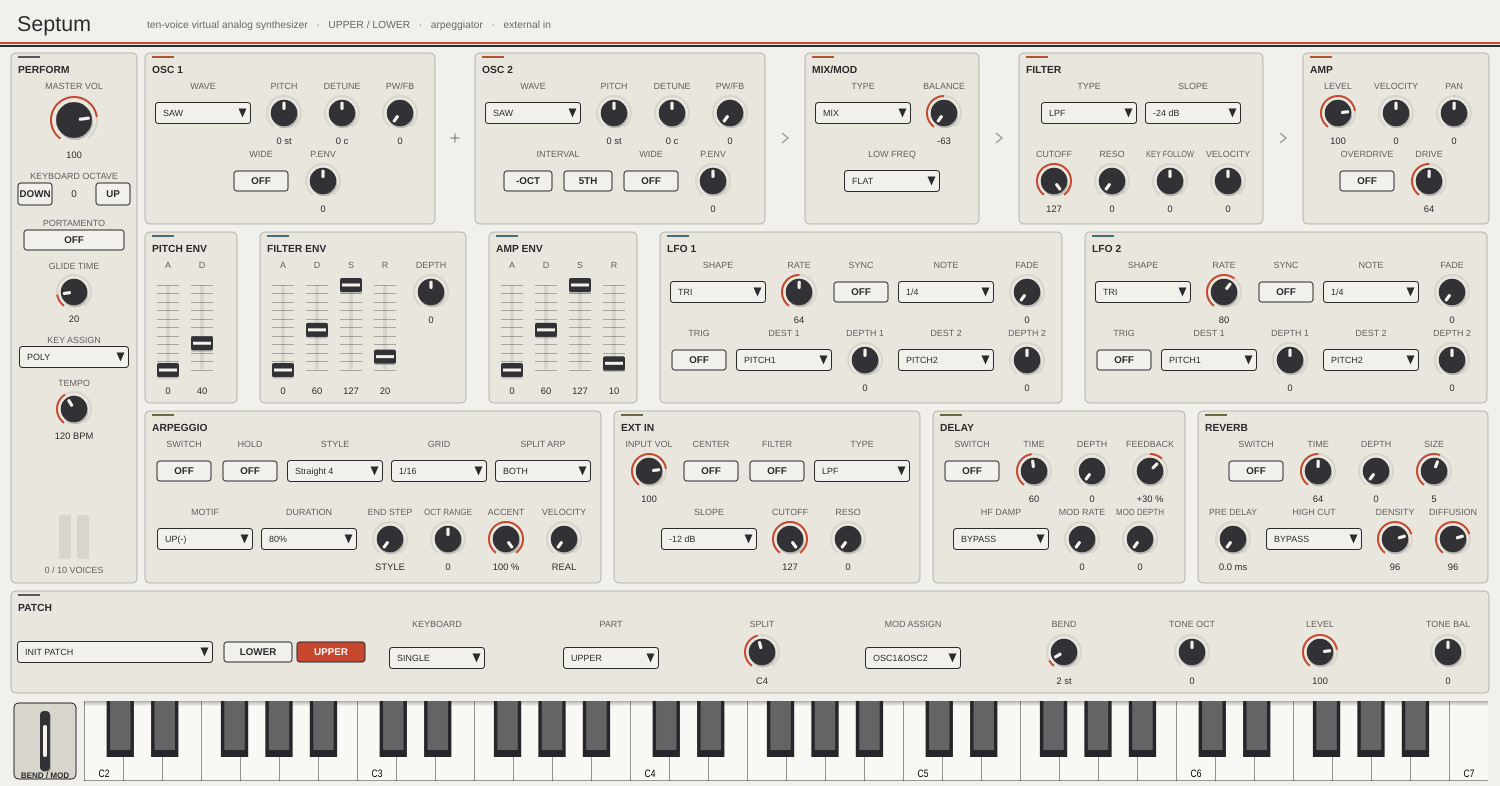
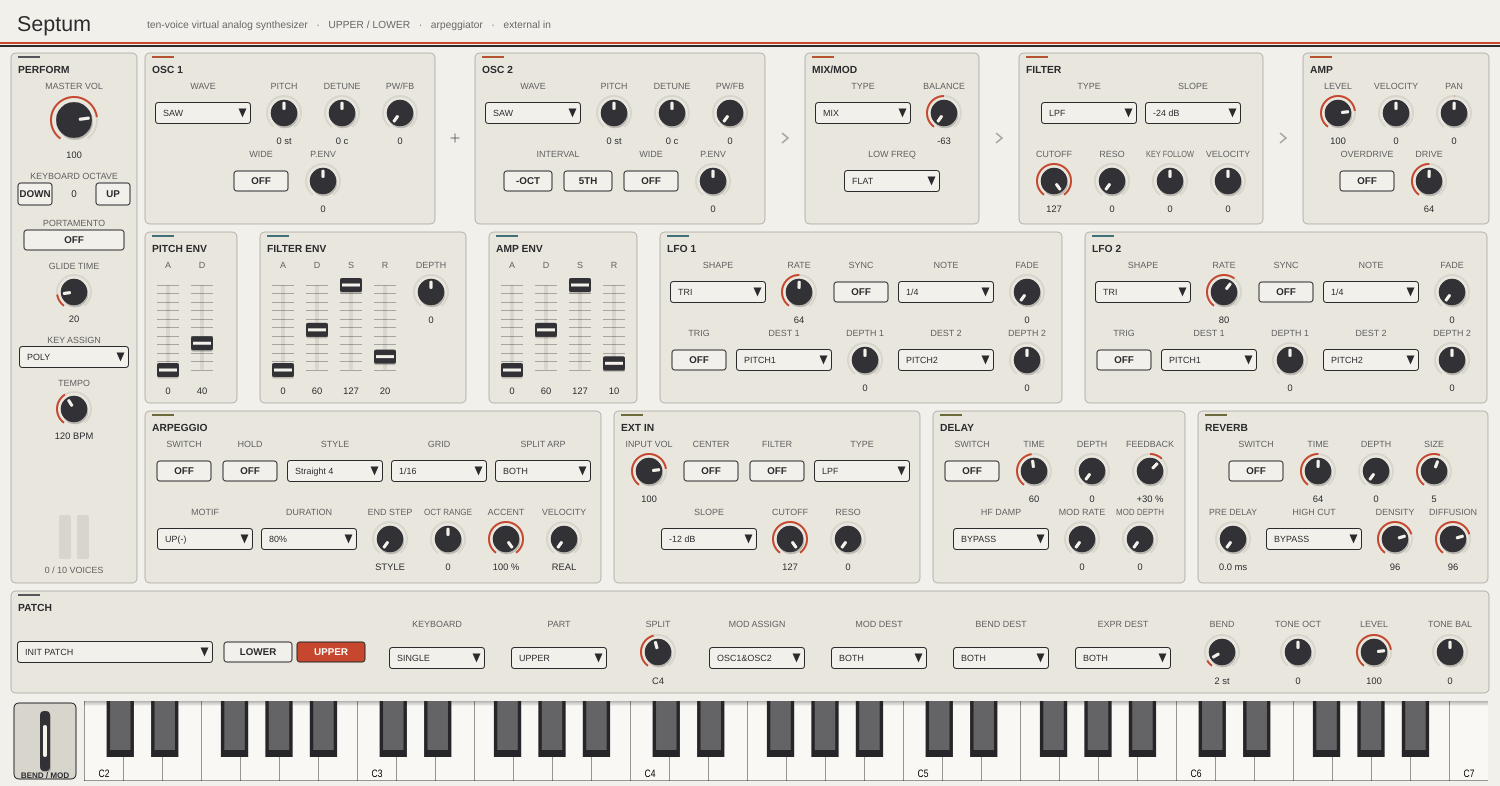
Reach the tone the controller names, on bend, modulation and expression
Patch Common carries four bytes the contract mentioned only as "controller
destinations" and the engine did not read: MODULATION, D BEAM, PITCH BEND and
EXPRESSION DESTINATION, each UPPER / LOWER / BOTH. The manual gives them one
sentence apiece — "Selects the tone(s) whose pitch will be changed by the pitch
bend lever ... If this is 'BOTH,' the pitch of both the UPPER tone and LOWER
tone will change" (OM p. 65) — so in DUAL and SPLIT they decide which half of
the patch a lever reaches. The three whose controller the replica has are
implemented here; the D Beam's arrives with the D Beam.

A voice the bend lever does not reach does not bend, and one the modulation
lever does not reach takes none of the lever's four settled destinations. The
AUDIO-FILTER destination is one filter fed by two tones' LFO2s, so a single
destination picks that tone's and BOTH keeps the keyboard part's, unchanged.

EXPRESSION had to move for this: it multiplied the master chain, so it could
only ever reach both tones. It is a per-tone gain now, smoothed exactly as the
chain it left was, and with BOTH — the default — the product is identical. At
EXPRESSION 0 with the destination on one tone, that tone's partial drops more
than 34 dB while the other one is untouched.

Seven checks fence the three, all watched to fail when destinationReaches is
made to return true unconditionally. No shipped preset sets a destination away
from BOTH, so the committed demos are unchanged.
[…]

diff --git a/septum/Source/DSP/SeptumEngine.cpp b/septum/Source/DSP/SeptumEngine.cpp
@@ -525,6 +525,7 @@ void Engine::reset()
     hold_ = false;
     sostenuto_ = false;
     smoothedMaster_ = masterLevel_ / 127.0;
+    smoothedExpression_.fill (1.0);
     updateEffectCoefficients();
 }
 
@@ -1226,11 +1227,23 @@ void Engine::updateVoiceControls (Voice& voice, int tickSamples)
     }
 
     const double pitchEnvLevel = voice.pitchEnv.advance (tickSamples);
-    const double bendSemitones = pitchBend_ * tone.bendRange;
+    // [settled] CONTROLLER DESTINATION: each physical controller names the
+    // tone or tones it reaches (OM p. 65). A voice the bend lever does not
+    // reach does not bend, and one the modulation lever does not reach is not
+    // modulated by it — the tone's own LFOs are untouched either way.
+    const bool upperVoice = voice.part == Part::Upper;
+    const double bendSemitones =
+        destinationReaches (patch_.pitchBendDestination, upperVoice)
+            ? pitchBend_ * tone.bendRange
+            : 0.0;
+    const double lever =
+        destinationReaches (patch_.modulationDestination, upperVoice)
+            ? modulation_
+            : 0.0;
 
     // Modulation-lever vibrato rides LFO2 (settled) into the assigned target.
     const double leverVibratoCents =
-        modulation_ * mapping::leverVibratoCents * runtime.lfo2Value;
+        lever * mapping::leverVibratoCents * runtime.lfo2Value;
     const bool leverToOsc1 =
         patch_.modulationAssign == ModulationAssign::Osc1AndOsc2
         || patch_.modulationAssign == ModulationAssign::Osc1;
@@ -1282,7 +1295,7 @@ void Engine::updateVoiceControls (Voice& voice, int tickSamples)
         contribution (tone.lfo2, runtime.lfo2Value);
         if ((oscIndex == 1 && patch_.modulationAssign == ModulationAssign::Pw1)
             || (oscIndex == 2 && patch_.modulationAssign == ModulationAssign::Pw2))
-            value += modulation_ * mapping::leverPulseWidth * runtime.lfo2Value;
+            value += lever * mapping::leverPulseWidth * runtime.lfo2Value;
         return std::clamp (value, 0.0, 127.0);
     };
 
@@ -1327,7 +1340,7 @@ void Engine::updateVoiceControls (Voice& voice, int tickSamples)
     if (tone.lfo2.destination1 == LfoDest1::Filter)
         lfoFilterOct += mapping::lfoFilterOctaves (tone.lfo2.depth1) * runtime.lfo2Value;
     if (patch_.modulationAssign == ModulationAssign::Filter)
-        lfoFilterOct += modulation_ * mapping::leverFilterOctaves * runtime.lfo2Value;
+        lfoFilterOct += lever * mapping::leverFilterOctaves * runtime.lfo2Value;
 
     const double cutoffBaseOct = std::log2 (mapping::cutoffHz (tone.cutoff));
     const double keyTrack = mapping::keyFollowOctavesPerOctave (tone.keyFollow)
@@ -1391,7 +1404,7 @@ void Engine::updateVoiceControls (Voice& voice, int tickSamples)
     if (tone.lfo2.destination2 == LfoDest2::Amp)
         tremolo += depthScale (tone.lfo2.depth2) * runtime.lfo2Value;
     if (patch_.modulationAssign == ModulationAssign::Amp)
-        tremolo += modulation_ * mapping::leverAmpDepth * runtime.lfo2Value;
+        tremolo += lever * mapping::leverAmpDepth * runtime.lfo2Value;
     gain *= std::max (0.0, 1.0 + tremolo);
 
     // Equal-power pan from the -64..+63 patch value.
@@ -2416,8 +2429,14 @@ void Engine::prepareExternalTick (const float* inputLeft, const float* inputRigh
     // sounding tone in SINGLE and therefore leaves SINGLE exactly as it was.
     if (patch_.modulationAssign == ModulationAssign::AudioFilter)
     {
+        // [voiced, OQ-14] The AUDIO FILTER is one filter and MODULATION
+        // DESTINATION names one tone or both, so a single destination picks
+        // that tone's LFO2 and BOTH keeps the keyboard part's — which is what
+        // SINGLE already gave and leaves it unchanged.
         const std::size_t leverIndex =
-            patch_.keyboardPart == KeyboardPart::Upper ? 0u : 1u;
+            patch_.modulationDestination == ToneDestination::Upper  ? 0u
+            : patch_.modulationDestination == ToneDestination::Lower ? 1u
+            : (patch_.keyboardPart == KeyboardPart::Upper ? 0u : 1u);
         octaves += modulation_ * mapping::audioFilterLeverOctaves
                    * tones_[leverIndex].lfo2Value;
     }
@@ -2815,6 +2834,24 @@ void Engine::process (float* left, float* right, int numSamples,
         const int tick = std::min (controlInterval, numSamples - offset);
         const int guarded = std::min (tick, maxBlock_);
 
+        // Per-tone EXPRESSION, smoothed the way the master chain it left is,
+        // so an expression pedal cannot step a voice's gain.
+        {
+            const double coeff = std::min (
+                1.0,
+                onePoleCoeff (sampleRate_, mapping::masterSlewSeconds) * guarded);
+            for (int index = 0; index < partCount; ++index)
+            {
+                const double target =
+                    destinationReaches (patch_.expressionDestination, index == 0)
+                        ? expression_
+                        : 1.0;
+                smoothedExpression_[static_cast<std::size_t> (index)] +=
+                    (target - smoothedExpression_[static_cast<std::size_t> (index)])
+                    * coeff;
+            }
+        }
+
         advanceToneLfos (guarded);
         advanceArpeggiator (guarded);
         prepareExternalTick (inputLeft, inputRight, offset, guarded);
@@ -2839,6 +2876,8 @@ void Engine::process (float* left, float* right, int numSamples,
                 voice.active = false;
 
             const TonePatch& tone = tonePatch (voice.part);
+            const double expression =
+                smoothedExpression_[voice.part == Part::Upper ? 0u : 1u];
             const double delaySend = tone.delayDepth / 127.0;
             const double reverbSend = tone.reverbDepth / 127.0;
             const auto gainL = static_cast<float> (voice.ampGainL * mapping::voiceHeadroom);
@@ -2847,9 +2886,10 @@ void Engine::process (float* left, float* right, int numSamples,
             // Tone balance sits between the two tones (settled parameter,
             // voiced law shared with the oscillator balance).
             const double toneGain =
-                voice.part == Part::Upper
-                    ? mapping::balanceLegGain (patch_.toneBalance, false)
-                    : mapping::balanceLegGain (patch_.toneBalance, true);
+                expression
+                * (voice.part == Part::Upper
+                       ? mapping::balanceLegGain (patch_.toneBalance, false)
+                       : mapping::balanceLegGain (patch_.toneBalance, true));
 
             for (int i = 0; i < guarded; ++i)
             {
@@ -2875,9 +2915,12 @@ void Engine::process (float* left, float* right, int numSamples,
                         guarded);
 
         // -- output stage: documented analog path + master gains -----------
+        // EXPRESSION left this chain for the per-tone gains above, because
+        // EXPRESSION DESTINATION names the tone or tones it controls; with
+        // BOTH, which is the default, the product is exactly what it was.
         const double masterTarget = (masterLevel_ / 127.0)
                                     * (patch_.patchLevel / 127.0)
-                                    * expression_ * partLevel_;
+                                    * partLevel_;
         const double masterCoeff =
             onePoleCoeff (sampleRate_, mapping::masterSlewSeconds) * guarded;
         smoothedMaster_ += (masterTarget - smoothedMaster_)

diff --git a/septum/Tests/SeptumEngineTests.cpp b/septum/Tests/SeptumEngineTests.cpp
@@ -509,6 +509,100 @@ void testSplitAndDualVoicing()
             "the eleventh key steals instead of growing the pool");
 }
 
+// [settled, OM p. 65] CONTROLLER DESTINATION names the tone or tones each
+// physical controller reaches: "Selects the tone(s) whose pitch will be
+// changed by the pitch bend lever ... If this is 'BOTH,' the pitch of both the
+// UPPER tone and LOWER tone will change", and the same sentence for the
+// modulation lever and the expression pedal.
+void testControllerDestinations()
+{
+    const double sampleRate = 44100.0;
+
+    // A DUAL patch whose two tones are a sine each, so a bend shows up as a
+    // pitch and nothing else moves.
+    const auto dualPatch = []
+    {
+        septum::Patch patch = plainSawPatch();
+        patch.keyboardMode = septum::KeyboardMode::Dual;
+        for (septum::TonePatch* tone : { &patch.upper, &patch.lower })
+        {
+            tone->osc1.wave = septum::Waveform::Sine;
+            tone->balance = -63;
+            tone->ampEnvSustain = 127;
+            tone->ampEnvAttack = 0;
+            tone->level = 127;
+            tone->bendRange = 12;
+            tone->lowFreq = septum::LowFreqMode::Flat;
+        }
+        // The two tones an octave apart, so each one's bend is visible on its
+        // own partial.
+        patch.lower.octaveShift = -1;
+        return patch;
+    };
+
+    const auto bentLevel = [&] (septum::ToneDestination destination, double hz)
+    {
+        septum::Patch patch = dualPatch();
+        patch.pitchBendDestination = destination;
+        septum::Engine engine;
+        engine.prepare (sampleRate, 256);
+        engine.setPatch (patch);
+        engine.reset();
+        engine.setPitchBend (1.0);      // a full octave up on both ranges
+        auto take = renderScore (engine, { { 0.0, true, 60, 100 } }, 0.6,
+                                 sampleRate);
+        return goertzel (take.left, 8820, 26460, hz, sampleRate);
+    };
+
+    // Note 60 is 261.63 Hz and the LOWER tone an octave below it is 130.81;
+    // a full bend with a range of 12 doubles each.
+    const double upperBent = 523.25, lowerBent = 261.63, lowerUnbent = 130.81;
+    expect (bentLevel (septum::ToneDestination::Upper, upperBent) > 1.0e-3,
+            "UPPER bends when the destination names it");
+    expect (bentLevel (septum::ToneDestination::Upper, lowerUnbent) > 1.0e-3,
+            "LOWER stays where it was when the destination does not name it");
+    expect (bentLevel (septum::ToneDestination::Lower, lowerBent) > 1.0e-3,
+            "LOWER bends when the destination names it");
+    expect (bentLevel (septum::ToneDestination::Both, upperBent) > 1.0e-3
+                && bentLevel (septum::ToneDestination::Both, lowerBent) > 1.0e-3,
+            "BOTH bends both tones");
+
+    // EXPRESSION reaches only the tone(s) it names, and BOTH is what the
+    // master chain used to do for everyone.
+    const auto expressed = [&] (septum::ToneDestination destination, double hz)
+    {
+        septum::Patch patch = dualPatch();
+        patch.expressionDestination = destination;
+        septum::Engine engine;
+        engine.prepare (sampleRate, 256);
+        engine.setPatch (patch);
+        engine.reset();
+        engine.setExpression (0.0);
+        auto take = renderScore (engine, { { 0.0, true, 60, 100 } }, 0.6,
+                                 sampleRate);
+        return goertzel (take.left, 13230, 26460, hz, sampleRate);
+    };
+    // The two tones are an octave apart and the surviving one is loud, so the
+    // silenced partial is read against the same partial when the destination
+    // does not name it rather than against an absolute floor.
+    const double upperTone = 261.63, lowerTone = 130.81;
+    const double upperNamed = expressed (septum::ToneDestination::Upper, upperTone);
+    const double upperSpared = expressed (septum::ToneDestination::Lower, upperTone);
+    const double lowerNamed = expressed (septum::ToneDestination::Lower, lowerTone);
+    const double lowerSpared = expressed (septum::ToneDestination::Upper, lowerTone);
+    expect (upperNamed < 0.02 * upperSpared,
+            "EXPRESSION at zero takes at least 34 dB off the tone it names "
+            "(named " + std::to_string (upperNamed) + ", spared "
+                + std::to_string (upperSpared) + ")");
+    expect (lowerNamed < 0.02 * lowerSpared,
+            "EXPRESSION at zero names LOWER as readily as UPPER");
+    expect (expressed (septum::ToneDestination::Both, upperTone)
+                    < 0.02 * upperSpared
+                && expressed (septum::ToneDestination::Both, lowerTone)
+                       < 0.02 * lowerSpared,
+            "EXPRESSION at zero with BOTH takes both tones down");
+}
+
 void testSoloAndHold()
 {
     septum::Patch patch = plainSawPatch();
@@ -2737,6 +2831,7 @@ int main()
     testOscillatorSync();
     testSuperSawSpread();
     testSplitAndDualVoicing();
+    testControllerDestinations();
     testSoloAndHold();
     testSostenutoLatchesOnlyWhatWasSounding();
     testExternalInputAndAudioFilter();

diff --git a/septum/Source/DSP/SeptumPatch.h b/septum/Source/DSP/SeptumPatch.h
@@ -102,6 +102,20 @@ enum class ArpeggioMotif
 // SPLIT ARPEGGIO: which tone(s) the arpeggiator drives in SPLIT mode.
 enum class SplitArpeggio { Upper, Lower, Both };
 
+// CONTROLLER DESTINATION (Patch Common offsets 15, 16, 17, 18): which tone(s)
+// each of the four physical controllers reaches. "Selects the tone(s) to be
+// modulated by the modulation lever ... If this is 'BOTH,' modulation will be
+// applied to both the UPPER tone and LOWER tone" (OM p. 65), and the same
+// sentence for the D Beam, the pitch bend lever and the expression pedal.
+enum class ToneDestination { Upper, Lower, Both };
+
+[[nodiscard]] inline bool destinationReaches (ToneDestination destination,
+                                              bool upper) noexcept
+{
+    return destination == ToneDestination::Both
+           || (destination == ToneDestination::Upper) == upper;
+}
+
 inline constexpr int arpeggioMaxSteps = 32;
 inline constexpr int arpeggioMaxRows = 16;
 // Grid cell encodings: a rest, a tie holding the preceding note, or a note-on
@@ -301,6 +315,11 @@ struct Patch
     bool delayOn { false };
     bool reverbOn { false };
     ModulationAssign modulationAssign { ModulationAssign::Osc1AndOsc2 };
+    // Settled: which tone(s) each controller reaches (OM p. 65). The D Beam's
+    // destination arrives with the D Beam itself.
+    ToneDestination modulationDestination { ToneDestination::Both };
+    ToneDestination pitchBendDestination { ToneDestination::Both };
+    ToneDestination expressionDestination { ToneDestination::Both };
     ArpeggioParams arpeggio {};
 
     TonePatch upper {};

diff --git a/septum/Source/PluginProcessor.cpp b/septum/Source/PluginProcessor.cpp
@@ -55,6 +55,8 @@ const juce::StringArray arpMotifChoices {
     "UP&DN(L)", "UP&DN(L&H)", "UP&DN(-)", "RAND(L)", "RAND(-)", "PHRASE"
 };
 const juce::StringArray arpSplitChoices { "UPPER", "LOWER", "BOTH" };
+// CONTROLLER DESTINATION, the same three for every controller (OM p. 65).
+const juce::StringArray toneDestinationChoices { "UPPER", "LOWER", "BOTH" };
 
 const juce::StringArray& arpStyleChoices()
 {
@@ -338,6 +340,15 @@ const std::vector<PatchBinding>& patchBindings()
           PATCH_BOOL (reverbOn) },
         { "mod_assign", "Modulation Assign", Kind::Choice, 0, 8,
           &modAssignChoices, PATCH_ENUM (modulationAssign, ModulationAssign) },
+        { "mod_dest", "Modulation Destination", Kind::Choice, 0, 3,
+          &toneDestinationChoices,
+          PATCH_ENUM (modulationDestination, septum::ToneDestination) },
+        { "bend_dest", "Pitch Bend Destination", Kind::Choice, 0, 3,
+          &toneDestinationChoices,
+          PATCH_ENUM (pitchBendDestination, septum::ToneDestination) },
+        { "expr_dest", "Expression Destination", Kind::Choice, 0, 3,
+          &toneDestinationChoices,
+          PATCH_ENUM (expressionDestination, septum::ToneDestination) },
         { "arp_on", "Arpeggio Switch", Kind::Bool, 0, 1, nullptr,
           PATCH_BOOL (arpeggio.on) },
         { "arp_hold", "Arpeggio Hold", Kind::Bool, 0, 1, nullptr,

diff --git a/septum/Source/PluginEditor.cpp b/septum/Source/PluginEditor.cpp
@@ -622,6 +622,10 @@ SeptumAudioProcessorEditor::SeptumAudioProcessorEditor (
     addControl (*stripSection, "keyboard_part", "PART", Style::Combo, false);
     addControl (*stripSection, "split_point", "SPLIT", Style::Knob, false);
     addControl (*stripSection, "mod_assign", "MOD ASSIGN", Style::Combo, false);
+    // CONTROLLER DESTINATION: which tone each physical controller reaches.
+    addControl (*stripSection, "mod_dest", "MOD DEST", Style::Combo, false);
+    addControl (*stripSection, "bend_dest", "BEND DEST", Style::Combo, false);
+    addControl (*stripSection, "expr_dest", "EXPR DEST", Style::Combo, false);
     addControl (*stripSection, "bend_range", "BEND", Style::Knob, true, " st");
     addControl (*stripSection, "octave_shift", "TONE OCT", Style::Knob);
     addControl (*stripSection, "patch_level", "LEVEL", Style::Knob, false);

diff --git a/septum/Source/DSP/SeptumEngine.h b/septum/Source/DSP/SeptumEngine.h
@@ -1052,6 +1052,9 @@ private:
     double pitchBend_ { 0.0 };
     double modulation_ { 0.0 };
     double expression_ { 1.0 };
+    // EXPRESSION reaches the tone(s) EXPRESSION DESTINATION names, so it is
+    // carried per tone and smoothed there rather than in the master chain.
+    std::array<double, 2> smoothedExpression_ { 1.0, 1.0 };
     double partLevel_ { 1.0 };
     double partPan_ { 0.0 };
     bool hold_ { false };

diff --git a/septum/Docs/sh201-replica-research.md b/septum/Docs/sh201-replica-research.md
@@ -71,9 +71,25 @@ parameter surface. Every continuous parameter is 7-bit; signed displays use
 
 - **Patch Common** (0x21 bytes): name ×12, patch level 0–127, tone balance
   −63…+63, tempo 5–300, keyboard mode SINGLE/DUAL/SPLIT, keyboard part,
-  split point A0–C8, controller destinations, arpeggio/delay/reverb
+  split point A0–C8, arpeggio/delay/reverb
   switches, modulation assign (OSC1&OSC2 / OSC1 / OSC2 / PW1 / PW2 / FILTER /
-  AMP / AUDIO-FILTER), D-Beam assign (37 destinations), D-Beam polarity.
+  AMP / AUDIO-FILTER), the four **controller destinations** — MODULATION,
+  D BEAM, PITCH BEND and EXPRESSION, each UPPER / LOWER / BOTH — D-Beam assign
+  (37 destinations), D-Beam polarity, ACTIVE EXPRESSION switch.
+
+**CONTROLLER DESTINATION (settled, OM p. 65).** Each physical controller names
+the tone or tones it reaches: "Selects the tone(s) to be modulated by the
+modulation lever. If this is 'BOTH,' modulation will be applied to both the
+UPPER tone and LOWER tone", and the same sentence for the pitch bend lever and
+the expression pedal. The replica implements the three whose controller it
+has: a voice the bend lever does not reach does not bend, a voice the
+modulation lever does not reach takes none of the lever's four settled
+destinations, and EXPRESSION scales only the tone(s) it names — which is why
+it now sits in the per-tone gain rather than in the master chain, where with
+BOTH the product is identical. The AUDIO-FILTER lever destination is one
+filter fed by two tones' LFO2s, so a single destination picks that tone's and
+BOTH keeps the keyboard part's (voiced, OQ-14). D BEAM DESTINATION and ACTIVE
+EXPRESSION arrive with the D-Beam and stay deferred with it.
 - **Patch Tone** ×2 (0x40 bytes each): per oscillator — waveform
   (0–8: SAW, SQU, PW-SQU, TRI, SINE, NOISE, FB-OSC, SUPER-SAW, EXT-IN),
   pitch-wide switch (raw 28–100 for the coarse tune either way — the switch

diff --git a/septum/Docs/best-in-class-plan.md b/septum/Docs/best-in-class-plan.md
@@ -880,3 +880,33 @@ is what the documents settle, and it is one invented behaviour fewer.
 Nine checks fence the three, all watched to fail when the changes are
 reverted. No shipped preset sat off either grid or outside ±12 with WIDE off,
 so the committed demos are unchanged.
+
+#### Step 21 — the controller destinations, which every controller had ignored
+
+Patch Common carries four bytes the contract mentioned only as "controller
+destinations" and the engine did not read: MODULATION, D BEAM, PITCH BEND and
+EXPRESSION DESTINATION, each UPPER / LOWER / BOTH. The manual gives them one
+sentence apiece — "Selects the tone(s) whose pitch will be changed by the pitch
+bend lever ... If this is 'BOTH,' the pitch of both the UPPER tone and LOWER
+tone will change" (OM p. 65) — so in DUAL and SPLIT they decide which half of
+the patch a lever reaches. All three whose controller the replica has are
+implemented; the D Beam's arrives with the D Beam.
+
+Bending only UPPER, on a DUAL patch with the two tones an octave apart and a
+full-octave bend range on each, the surviving partials say which tone moved:
+
+| PITCH BEND DEST | 523 Hz (UPPER bent) | 131 Hz (LOWER unbent) | 262 Hz (LOWER bent) |
+|---|---|---|---|
+| UPPER | present | present | — |
+| LOWER | — | — | present |
+| BOTH | present | — | present |
+
+EXPRESSION had to move for this: it multiplied the master chain, so it could
+only ever reach both tones. It is a per-tone gain now, smoothed exactly as the
+chain it left was, and with BOTH — the default — the product is unchanged. At
+EXPRESSION 0 with the destination on one tone, that tone's partial drops more
+than 34 dB while the other one is untouched.
+
+Seven checks fence the three destinations, all watched to fail when
+`destinationReaches` is made to return true unconditionally. No shipped preset
+sets a destination away from BOTH, so the committed demos are unchanged.
